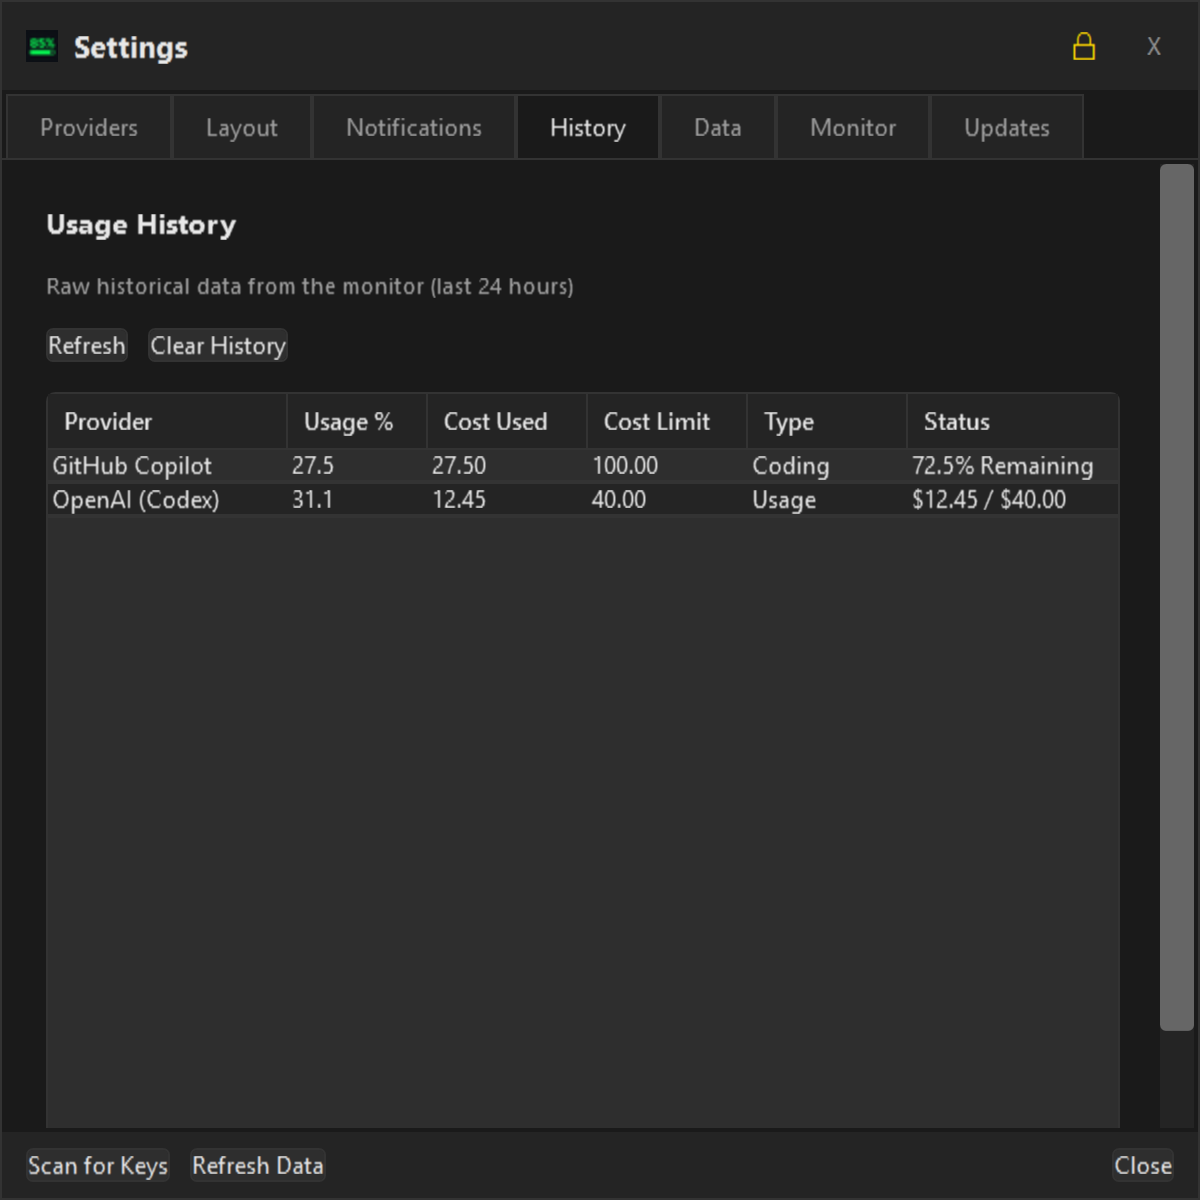
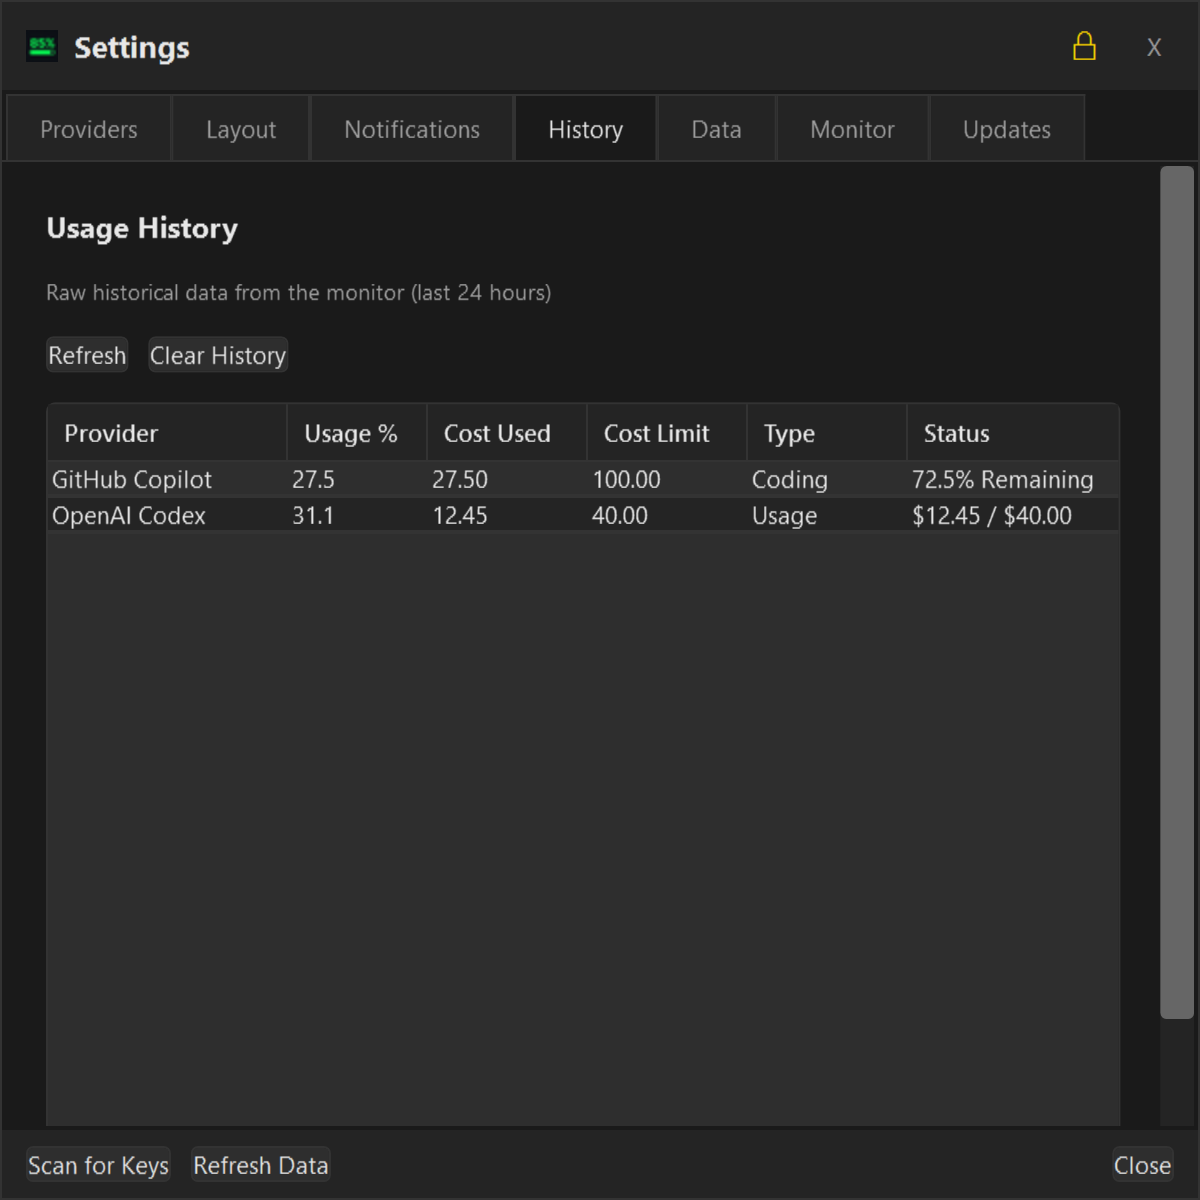
fix: resolve CI screenshot drift and test threading issues

diff --git a/AIUsageTracker.Tests/UI/DialogOpenBehaviorTests.cs b/AIUsageTracker.Tests/UI/DialogOpenBehaviorTests.cs
@@ -134,12 +134,32 @@ public class DialogOpenBehaviorTests
         {
             try
             {
-                testBody().GetAwaiter().GetResult();
-                tcs.SetResult(null);
+                var dispatcher = System.Windows.Threading.Dispatcher.CurrentDispatcher;
+                SynchronizationContext.SetSynchronizationContext(
+                    new System.Windows.Threading.DispatcherSynchronizationContext(dispatcher));
+
+                dispatcher.InvokeAsync(async () =>
+                {
+                    try
+                    {
+                        await testBody();
+                        tcs.SetResult(null);
+                    }
+                    catch (Exception ex)
+                    {
+                        tcs.SetException(ex);
+                    }
+                    finally
+                    {
+                        dispatcher.InvokeShutdown();
+                    }
+                });
+
+                System.Windows.Threading.Dispatcher.Run();
             }
             catch (Exception ex)
             {
-                tcs.SetException(ex);
+                tcs.TrySetException(ex);
             }
         });
 
